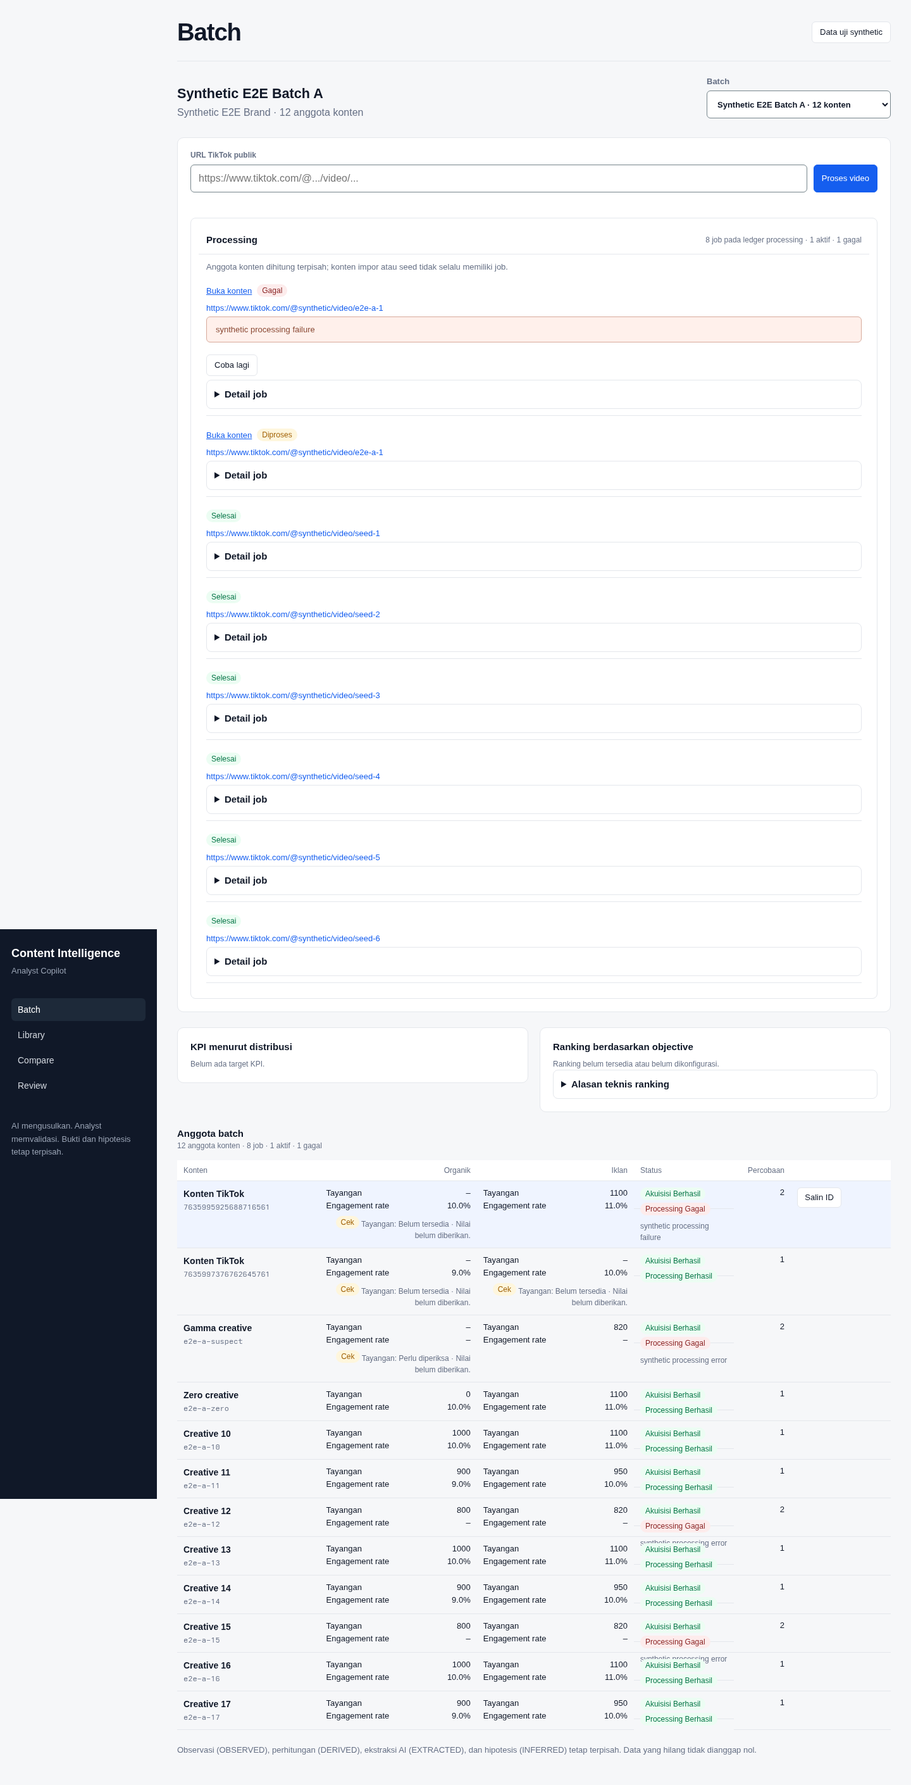
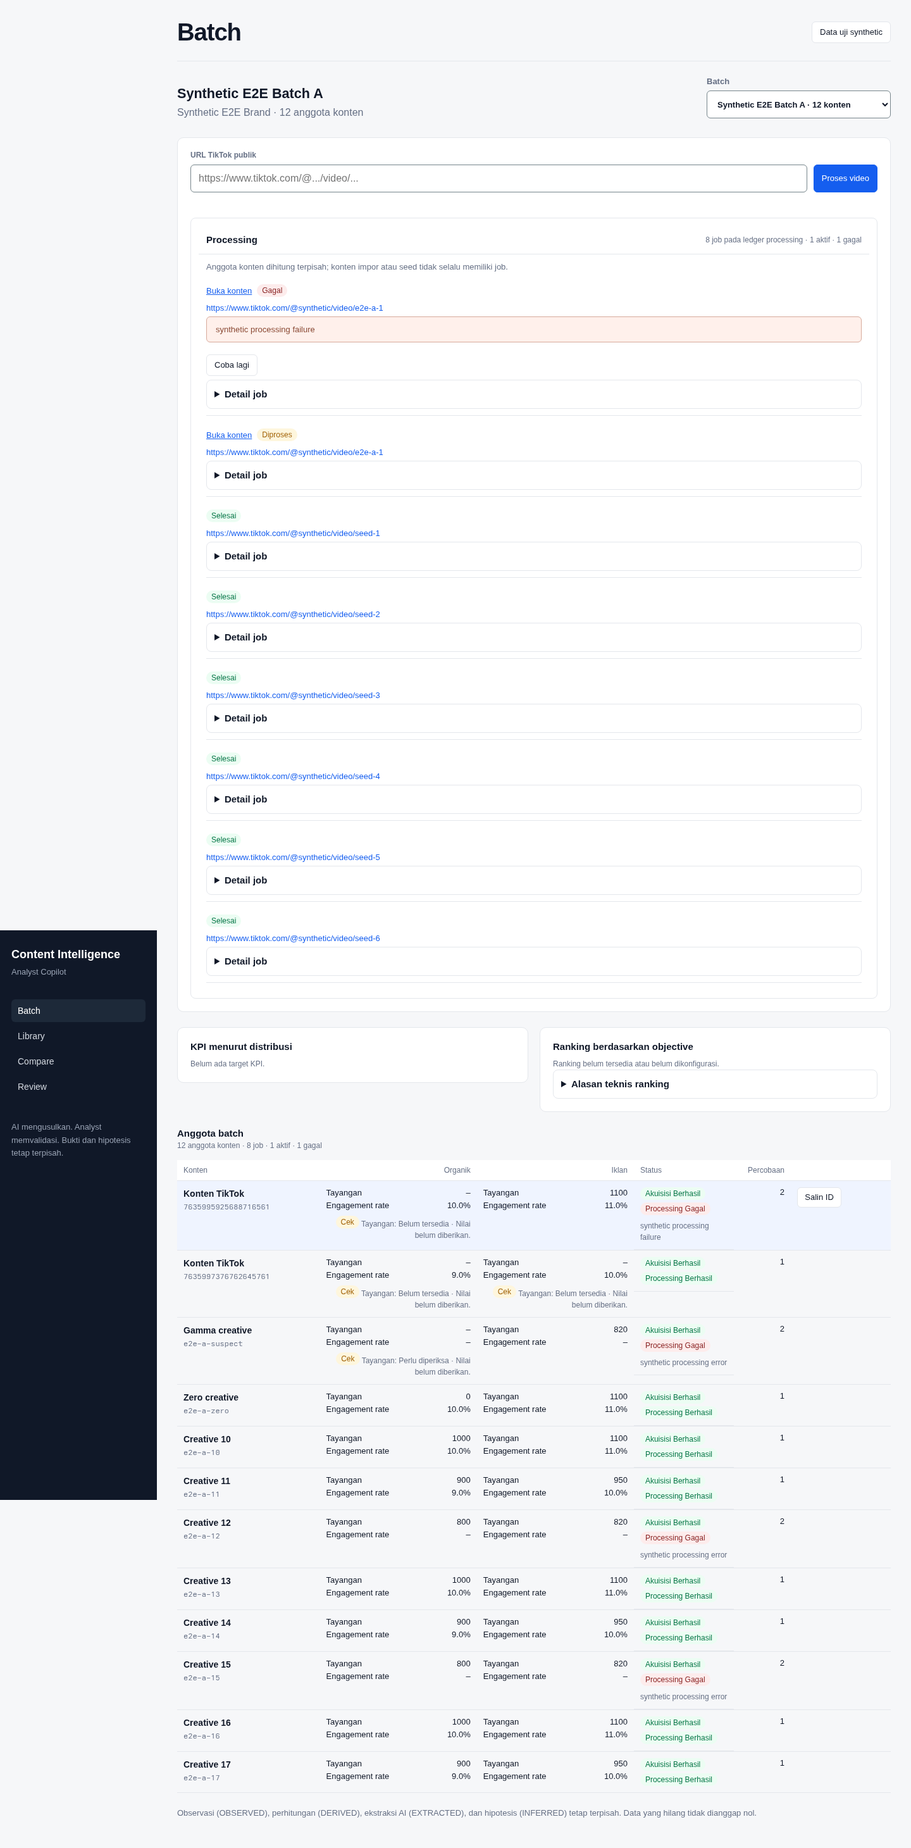
fix(batch): contain status reasons on mobile

diff --git a/app/workspace-client.tsx b/app/workspace-client.tsx
@@ -267,7 +267,7 @@ export default function WorkspaceClient() {
       <div hidden={view !== 'batch'}>
       <ProcessingForm key={batchId ?? data.selectedBatch.id} batchId={batchId ?? data.selectedBatch.id} onAccepted={(acceptedContentId) => setSelection(batchId ?? data.selectedBatch!.id, acceptedContentId, false, view)} onSettled={refreshDetail} onJobSummaryChange={setProcessingJobSummary} />
       <section className="workspace-summary" aria-labelledby="summary-heading"><div className="summary-block"><h2 id="summary-heading">KPI menurut distribusi</h2>{data.analysis?.kpis.length ? data.analysis.kpis.map((item) => <p className="summary-line" key={item.definition.id}><strong>{labelId(item.definition.distribution ?? 'UNCONFIGURED')} · {statusLabel(item.assessment.status)}</strong><span>{labelId(item.definition.metric_name)} · target {metricTextId(item.definition.target_value, item.definition.metric_name)} · aktual {metricTextId(item.assessment.actualValue, item.definition.metric_name)} · {item.assessment.excludedSnapshotIds.length} snapshot dikecualikan</span></p>) : <p className="muted">Belum ada target KPI.</p>}</div><div className="summary-block"><h2>Ranking berdasarkan objective</h2>{data.analysis?.ranking.rankedGroups.length ? data.analysis.ranking.rankedGroups.map((group) => { const extremes = rankingExtremes(group); const linkItems = (items: RankingItem[], value: number | null, label: string) => <span className="extreme-line"><strong>{label}</strong>{items.map((item) => <button className="inline-link" type="button" key={`${label}-${item.contentId}`} onClick={() => { setSelection(data.selectedBatch!.id, item.contentId); navigate('library'); }}>{contentLabel(data.contents.find((content) => content.id === item.contentId))} · {metricTextId(value, group.basis)}</button>)}</span>; return <div className="summary-line" key={`${group.basis}-${group.direction}`}><strong>{labelId(group.basis)} · urutan {labelId(group.direction)}</strong>{linkItems(extremes.best.items, extremes.best.value, 'Terbaik pada basis ini')}{linkItems(extremes.lowest.items, extremes.lowest.value, 'Terendah pada basis ini')}<span>{group.items.length} memenuhi syarat · tidak dibandingkan lintas basis</span></div>; }) : <><p className="muted">Ranking belum tersedia atau belum dikonfigurasi.</p>{data.analysis?.ranking.reason && <details><summary>Alasan teknis ranking</summary>{data.analysis.ranking.reason}</details>}{data.analysis?.ranking.status === 'UNCONFIGURED' && <p className="muted">Atur objective melalui konfigurasi brand yang disetujui. Konfigurasi ranking bersifat append-only.</p>}</>}</div></section>
-      <section className="batch-members" aria-label="Anggota batch"><div className="section-heading"><div><h2 id="batch-members-heading">Anggota batch</h2><p className="muted">{data.contents.length} anggota konten · {jobSummaryText}</p></div></div>{data.contents.length === 0 ? <p className="empty-state">Belum ada konten pada batch ini. Tambahkan URL dari Batch.</p> : <table className="batch-table"><thead><tr><th scope="col">Konten</th><th scope="col" className="num">Organik</th>{hasPaidMetrics && <th scope="col" className="num">Iklan</th>}{hasFrameEvidence && <th scope="col">Frame</th>}<th scope="col">Status</th><th scope="col" className="num batch-attempts">Percobaan</th><th scope="col" className="batch-copy-heading"><span className="visually-hidden">Salin ID</span></th></tr></thead><tbody>{data.contents.map((content) => { const organic = content.snapshots.find((snapshot) => snapshot.distribution === 'ORGANIC'); const paid = content.snapshots.find((snapshot) => snapshot.distribution === 'PAID'); const metric = (value: number | null | undefined, name: string) => value === null || value === undefined ? <span className="dash" aria-label="Tidak tersedia">–</span> : metricTextId(value, name); const metrics = (snapshot: Snapshot | undefined) => <div className="batch-metrics"><span className="batch-metric-line"><span>Tayangan</span><span>{metric(snapshot?.rawMetrics.views, 'views')}</span></span><span className="batch-metric-line"><span>Engagement rate</span><span>{metric(snapshot?.derivedMetrics.engagement_rate?.value, 'engagement_rate')}</span></span>{!snapshot && <small>Belum tersedia</small>}{snapshot && Object.entries(snapshot.qualityByMetric).filter(([, value]) => value.state !== 'VALID').map(([name, value]) => <small className="quality-reason" key={`${snapshot.id}-${name}`}><span className="badge badge--warn">Cek</span> {labelId(name)}: {labelId(value.state)} · {value.reason ? labelId(value.reason) : 'Tanpa alasan tersimpan'}</small>)}</div>; const acquisition = statusLabel(content.acquisitionState); const processing = statusLabel(content.processingState); const untitled = !content.title || content.title === 'Konten TikTok'; return <tr className="content-row" key={content.id}><td className="batch-cell batch-content-cell"><button className="content-row-select batch-content-link" type="button" onClick={() => setSelection(data.selectedBatch!.id, content.id, false, 'library')}><strong>{untitled ? 'Konten TikTok' : content.title}</strong><code>{content.externalId}</code></button></td><td className="batch-cell num batch-metric" data-label="Organik">{metrics(organic)}</td>{hasPaidMetrics && <td className="batch-cell num batch-metric" data-label="Iklan">{metrics(paid)}</td>}{hasFrameEvidence && <td className="batch-cell batch-frame" data-label="Frame">{content.hasFrameEvidence ? 'Frame tersedia' : <span className="dash" aria-label="Frame belum tersedia">–</span>}</td>}<td className="batch-cell batch-status-cell"><span className={`batch-status batch-status--${statusTone(content.acquisitionState)}`}>Akuisisi {acquisition}</span><span className={`batch-status batch-status--${statusTone(content.processingState)}`}>Processing {processing}</span>{content.processingError && <small className="quality-reason">{content.processingError}</small>}</td><td className="batch-cell num batch-attempts" data-label="Percobaan">{content.attemptCount}</td><td className="batch-cell batch-copy-cell"><button type="button" className="copy-id" aria-label={`Salin ID ${content.externalId}`} onClick={(event) => copyExternalId(event, content)}>Salin ID</button>{copiedContentId === content.id && <small role="status">ID disalin</small>}{copiedContentId === `error:${content.id}` && <small role="status">ID gagal disalin</small>}</td></tr>; })}</tbody></table>}</section>
+      <section className="batch-members" aria-label="Anggota batch"><div className="section-heading"><div><h2 id="batch-members-heading">Anggota batch</h2><p className="muted">{data.contents.length} anggota konten · {jobSummaryText}</p></div></div>{data.contents.length === 0 ? <p className="empty-state">Belum ada konten pada batch ini. Tambahkan URL dari Batch.</p> : <table className="batch-table"><thead><tr><th scope="col">Konten</th><th scope="col" className="num">Organik</th>{hasPaidMetrics && <th scope="col" className="num">Iklan</th>}{hasFrameEvidence && <th scope="col">Frame</th>}<th scope="col">Status</th><th scope="col" className="num batch-attempts">Percobaan</th><th scope="col" className="batch-copy-heading"><span className="visually-hidden">Salin ID</span></th></tr></thead><tbody>{data.contents.map((content) => { const organic = content.snapshots.find((snapshot) => snapshot.distribution === 'ORGANIC'); const paid = content.snapshots.find((snapshot) => snapshot.distribution === 'PAID'); const metric = (value: number | null | undefined, name: string) => value === null || value === undefined ? <span className="dash" aria-label="Tidak tersedia">–</span> : metricTextId(value, name); const metrics = (snapshot: Snapshot | undefined) => <div className="batch-metrics"><span className="batch-metric-line"><span>Tayangan</span><span>{metric(snapshot?.rawMetrics.views, 'views')}</span></span><span className="batch-metric-line"><span>Engagement rate</span><span>{metric(snapshot?.derivedMetrics.engagement_rate?.value, 'engagement_rate')}</span></span>{!snapshot && <small>Belum tersedia</small>}{snapshot && Object.entries(snapshot.qualityByMetric).filter(([, value]) => value.state !== 'VALID').map(([name, value]) => <small className="quality-reason" key={`${snapshot.id}-${name}`}><span className="badge badge--warn">Cek</span>{' '}<span className="quality-reason-text">{labelId(name)}: {labelId(value.state)} · {value.reason ? labelId(value.reason) : 'Tanpa alasan tersimpan'}</span></small>)}</div>; const acquisition = statusLabel(content.acquisitionState); const processing = statusLabel(content.processingState); const untitled = !content.title || content.title === 'Konten TikTok'; return <tr className="content-row" key={content.id}><td className="batch-cell batch-content-cell"><button className="content-row-select batch-content-link" type="button" onClick={() => setSelection(data.selectedBatch!.id, content.id, false, 'library')}><strong>{untitled ? 'Konten TikTok' : content.title}</strong><code>{content.externalId}</code></button></td><td className="batch-cell num batch-metric" data-label="Organik">{metrics(organic)}</td>{hasPaidMetrics && <td className="batch-cell num batch-metric" data-label="Iklan">{metrics(paid)}</td>}{hasFrameEvidence && <td className="batch-cell batch-frame" data-label="Frame">{content.hasFrameEvidence ? 'Frame tersedia' : <span className="dash" aria-label="Frame belum tersedia">–</span>}</td>}<td className="batch-cell batch-status-cell"><span className={`batch-status batch-status--${statusTone(content.acquisitionState)}`}>Akuisisi {acquisition}</span><span className={`batch-status batch-status--${statusTone(content.processingState)}`}>Processing {processing}</span>{content.processingError && <small className="quality-reason">{content.processingError}</small>}</td><td className="batch-cell num batch-attempts" data-label="Percobaan">{content.attemptCount}</td><td className="batch-cell batch-copy-cell"><button type="button" className="copy-id" aria-label={`Salin ID ${content.externalId}`} onClick={(event) => copyExternalId(event, content)}>Salin ID</button>{copiedContentId === content.id && <small role="status">ID disalin</small>}{copiedContentId === `error:${content.id}` && <small role="status">ID gagal disalin</small>}</td></tr>; })}</tbody></table>}</section>
       </div>
       {loading && <p className="notice" role="status">Memuat data terpilih…</p>}
       <div hidden={view !== 'compare'}>

diff --git a/tests/e2e/lb4-1-batch.spec.ts b/tests/e2e/lb4-1-batch.spec.ts
@@ -466,7 +466,6 @@ test('AC-09 Batch status pills preserve semantic color and single-line geometry'
 
 test('AC-10 Batch rows contain status reasons and metric card elements without overlap', async ({ page }) => {
   await installApi(page);
-  const overlap = (left: { left: number; right: number; top: number; bottom: number }, right: { left: number; right: number; top: number; bottom: number }) => Math.max(0, Math.min(left.right, right.right) - Math.max(left.left, right.left)) * Math.max(0, Math.min(left.bottom, right.bottom) - Math.max(left.top, right.top));
   for (const viewport of [{ width: 1440, height: 900 }, { width: 390, height: 844 }]) {
     await page.setViewportSize(viewport);
     await page.goto(`/?batchId=${batchA.id}&view=batch`);
@@ -477,7 +476,7 @@ test('AC-10 Batch rows contain status reasons and metric card elements without o
         const overlap = (left: DOMRect, right: DOMRect) => Math.max(0, Math.min(left.right, right.right) - Math.max(left.left, right.left)) * Math.max(0, Math.min(left.bottom, right.bottom) - Math.max(left.top, right.top));
         const visible = (node: Element) => (node as HTMLElement).checkVisibility();
         return {
-          contained: rows.every((row) => [...row.querySelectorAll('.batch-cell, .batch-status, .batch-status-cell > .quality-reason')].filter(visible).every((node) => { const child = rect(node); const parent = rect(row); return child.left >= parent.left && child.right <= parent.right && child.top >= parent.top && child.bottom <= parent.bottom; })),
+          contained: rows.every((row) => [...row.querySelectorAll('*')].filter(visible).every((node) => { const child = rect(node); const parent = rect(row); return child.left >= parent.left && child.right <= parent.right && child.top >= parent.top && child.bottom <= parent.bottom; })),
           crossRowIntersections: rows.flatMap((row, index) => [...row.querySelectorAll('.batch-status, .batch-status-cell > .quality-reason')].filter(visible).flatMap((node) => rows.slice(index + 1).flatMap((next) => [...next.querySelectorAll('.batch-status, .batch-status-cell > .quality-reason')].filter(visible).map((other) => overlap(rect(node), rect(other)))))).filter((area) => area > 0),
         };
       });
@@ -487,12 +486,27 @@ test('AC-10 Batch rows contain status reasons and metric card elements without o
       await expect(cards.nth(0)).toContainText('Konten TikTok');
       await expect(cards.nth(1)).toContainText('Konten TikTok');
       await expect(cards.nth(2)).toContainText('Gamma creative');
-      const geometry = await cards.evaluateAll((rows) => rows.slice(0, 3).map((row) => {
-        const nodes = [...row.querySelectorAll<HTMLElement>('.batch-metric-line > span, .badge--warn, .batch-metrics .quality-reason')].filter((node) => node.checkVisibility());
-        const rects = nodes.map((node) => node.getBoundingClientRect());
-        return rects.flatMap((rect, index) => rects.slice(index + 1).map((other) => overlap(rect, other))).filter((area) => area > 0);
-      }));
+      const geometry = await cards.evaluateAll((rows) => {
+        const overlap = (left: DOMRect, right: DOMRect) => Math.max(0, Math.min(left.right, right.right) - Math.max(left.left, right.left)) * Math.max(0, Math.min(left.bottom, right.bottom) - Math.max(left.top, right.top));
+        return rows.slice(0, 3).map((row) => {
+          const nodes = [...row.querySelectorAll<HTMLElement>('.batch-metric-line > span, .badge--warn, .batch-metrics .quality-reason-text')].filter((node) => node.checkVisibility());
+          const rects = nodes.map((node) => node.getBoundingClientRect());
+          return rects.flatMap((rect, index) => rects.slice(index + 1).map((other) => overlap(rect, other))).filter((area) => area > 0);
+        });
+      });
       expect(geometry).toEqual([[], [], []]);
+      if (process.env.CIC_BATCH_EVIDENCE_DIR) {
+        await page.setViewportSize({ width: viewport.width, height: 2000 });
+        await cards.nth(0).scrollIntoViewIfNeeded();
+        const crop = await cards.evaluateAll((rows) => {
+          const first = rows[0].getBoundingClientRect();
+          const third = rows[2].getBoundingClientRect();
+          return { y: first.top, height: third.bottom - first.top };
+        });
+        expect(await page.evaluate(() => devicePixelRatio)).toBe(1);
+        await page.screenshot({ path: `${process.env.CIC_BATCH_EVIDENCE_DIR}/BATCH_PRESENTATION_390_CARDS.png`, clip: { x: 0, y: crop.y, width: 390, height: crop.height } });
+      }
+      await page.setViewportSize(viewport);
     }
     const processing = page.locator('.processing-job-status').first();
     const processingGeometry = await processing.evaluate((node) => {

diff --git a/app/globals.css b/app/globals.css
@@ -625,7 +625,7 @@ button.primary { border-color: var(--accent); background: var(--accent); color: 
 .view-batch .processing-drawer-content .job-source:hover, .view-batch .processing-drawer-content .job-source:focus-visible { text-decoration: underline; }
 .view-batch .batch-table { table-layout: fixed; }
 .view-batch .batch-table th { height: 32px; padding: 0 10px; color: var(--muted); font-size: var(--type-meta); font-weight: 500; line-height: 16px; vertical-align: middle; }
-.view-batch .batch-table td { padding: 10px; color: var(--ink); font-size: var(--type-body); font-weight: 400; vertical-align: top; }
+.view-batch .batch-table td { height: auto; padding: 10px; color: var(--ink); font-size: var(--type-body); font-weight: 400; vertical-align: top; }
 .view-batch .batch-content-link { display: grid; gap: 2px; min-height: 0; padding: 0; border: 0 !important; border-radius: 0; background: transparent !important; color: var(--ink); font-size: var(--type-body); font-weight: 400; }
 .view-batch .batch-content-link strong { font-size: 14px; font-weight: 600; line-height: 20px; }
 .view-batch .batch-content-link code { margin: 0; font: 12px/18px monospace; }
@@ -633,10 +633,11 @@ button.primary { border-color: var(--accent); background: var(--accent); color: 
 .view-batch .batch-metric-line { display: flex; justify-content: space-between; gap: 8px; min-width: 0; font-size: var(--type-body); font-weight: 400; line-height: 18px; text-align: right; }
 .view-batch .batch-metric-line > span:first-child { min-width: 0; text-align: left; }
 .view-batch .batch-metric-line > span:last-child { flex: 0 0 auto; }
-.view-batch .batch-status-cell { display: flex; flex-direction: column; align-items: flex-start; gap: 4px; }
+.view-batch .batch-status-cell { display: flex; flex-direction: column; align-items: flex-start; gap: 4px; min-width: 0; }
 .view-batch .batch-status { box-sizing: border-box; width: fit-content; min-height: 20px; height: 20px; padding: 2px 8px; border: 0; border-radius: 999px; font-size: 12px; font-weight: 500; line-height: 16px; white-space: nowrap; }
 .view-batch .badge--warn { box-sizing: border-box; height: 20px; padding: 2px 8px; border: 0; border-radius: 999px; font-size: 12px; font-weight: 500; line-height: 16px; vertical-align: text-bottom; }
-.view-batch .quality-reason { display: block; margin-top: 4px; color: var(--muted) !important; font-size: var(--type-meta); font-weight: 400; line-height: 18px; overflow-wrap: anywhere; }
+.view-batch .quality-reason { display: block; width: 100%; margin-top: 4px; color: var(--muted) !important; font-size: var(--type-meta); font-weight: 400; line-height: 18px; overflow-wrap: anywhere; }
+.view-batch .quality-reason-text { min-width: 0; }
 @media (max-width: 900px) {
   .view-batch .batch-table, .view-batch .batch-table tbody { display: block; width: 100%; }
   .view-batch .batch-table thead { display: none; }
@@ -649,8 +650,8 @@ button.primary { border-color: var(--accent); background: var(--accent); color: 
   .view-batch .batch-attempts { order: 5; }
   .view-batch .batch-copy-cell { order: 6; }
   .view-batch .batch-metric::before { content: attr(data-label); display: block; margin-bottom: 2px; color: var(--muted); font-size: var(--type-meta); font-weight: 400; line-height: 18px; }
-  .view-batch .batch-metric-line { text-align: left; }
-  .view-batch .batch-metric-line > span:last-child { flex: 0 1 auto; min-width: 0; overflow-wrap: anywhere; }
+  .view-batch .batch-metric-line { display: grid; grid-template-columns: minmax(0, 1fr) auto; align-items: start; text-align: left; }
+  .view-batch .batch-metric-line > span:last-child { min-width: 0; overflow-wrap: anywhere; }
   .view-batch .batch-copy-cell .copy-id { min-height: 32px !important; height: 32px; padding: 6px 10px !important; font-size: 13px; line-height: 18px; }
   .view-batch .batch-table .copy-id { opacity: 1; visibility: visible; }
 }

diff --git a/docs/tracking/evidence/BATCH_PRESENTATION_MEASUREMENTS_2026-10-23.md b/docs/tracking/evidence/BATCH_PRESENTATION_MEASUREMENTS_2026-10-23.md
@@ -12,20 +12,23 @@ Scope: build produksi lokal branch `feat/batch-presentation-pr`. API di-route-mo
 | Alasan kualitas engine | 12px abu; reason asal data | 12px / 400; `rgb(102, 112, 133)`; `MISSING · NOT_PROVIDED` | 12px / 400; warna sama | PASS |
 | Badge `Cek` | terisi, 12px | 37.34×20px; 12px / 500; amber; border 0; radius 999px | sama | PASS |
 | Status akuisisi `SUCCEEDED` | hijau lembut, tanpa border gelap | `rgb(236, 253, 243)` / `rgb(6, 118, 71)`; 20px; 12px / 500; border 0 | sama | PASS |
+| Dua pill status anggota | masing-masing 20px, `nowrap`, satu baris | akuisisi dan processing: 20px, `nowrap`, 1 baris | sama | PASS |
 | Status processing `FAILED` | merah lembut, tanpa border gelap | `rgb(253, 236, 236)` / `rgb(139, 37, 37)`; 20px; 12px / 500; border 0 | sama | PASS |
+| Alasan processing dalam baris anggota | setiap anak berada dalam bounding box row; interseksi lintas-row 0px² | seluruh `.batch-cell`, pill, dan alasan berada dalam row; 0px² | N/A | PASS |
+| Pill job `Processing …` | `fit-content`; lebar teks + padding 16px; tanpa pseudo/border/shadow/strip | deviasi lebar ≤1px; border 0; shadow `none`; `::before`/`::after` `none` | sama | PASS |
 | Status job processing | `COMPLETED` hijau; berjalan amber; gagal merah | tiga tone; 20px; 12px / 500; border 0; `nowrap` | sama | PASS |
 | Organik/Iklan | kolom terpisah; badge sumber tidak di sel nilai | sel metrik terpisah, tanpa source badge pada nilai | blok metrik terpisah satu kolom per distribution | PASS |
-| Kartu mobile | tidak saling tumpang tindih | N/A | blok `.batch-cell` tidak beririsan; setiap blok dan teks tidak overflow | PASS |
+| Tiga kartu metrik mobile | label, nilai, badge `Cek`, alasan tanpa interseksi | N/A | Konten TikTok, Konten TikTok kedua, Gamma creative: 0px² antar elemen leaf | PASS |
 
-Probe: `CIC_BATCH_EVIDENCE_DIR=docs/tracking/evidence CIC_E2E_STAGING_URL=http://127.0.0.1:3202 mise exec node@22.18.0 -- npx playwright test tests/e2e/lb4-1-batch.spec.ts --grep 'AC-07 readability|AC-08 Batch panels|AC-09 Batch status' --reporter=list`; `AC-07`, `AC-08`, dan `AC-09` lulus pada build produksi lokal. `AC-08` mengukur computed style dan overlap kartu di 1440×900 serta 390×844; `AC-09` mengunci geometri, warna, dan mapping tone status.
+Probe: `CIC_BATCH_EVIDENCE_DIR=docs/tracking/evidence CIC_E2E_STAGING_URL=http://127.0.0.1:3202 mise exec node@22.18.0 -- npx playwright test tests/e2e/lb4-1-batch.spec.ts --grep 'AC-10 Batch rows' --reporter=list`; `AC-10` lulus pada build produksi lokal. Desktop mengukur containment dan interseksi lintas-row; mobile mengukur baris metrik leaf dan menyimpan crop 390px/DPR1.
 
 ## Gambar
 
-| Desktop 1440×900 | Mobile 390×844 |
-|---|---|
-| `docs/tracking/evidence/BATCH_PRESENTATION_1440x900.png` | `docs/tracking/evidence/BATCH_PRESENTATION_390x844.png` |
+| Desktop 1440×900 | Mobile 390×844 | Crop tiga kartu mobile asli |
+|---|---|---|
+| `docs/tracking/evidence/BATCH_PRESENTATION_1440x900.png` | `docs/tracking/evidence/BATCH_PRESENTATION_390x844.png` | `docs/tracking/evidence/BATCH_PRESENTATION_390_CARDS.png` (390×1055, DPR1) |
 
 ## Selisih tersisa
 
-- Tidak ada selisih terhadap kriteria Batch yang terukur.
+- Tidak ada selisih terukur untuk status reason, pill job processing, atau geometri tiga kartu mobile pada fixture route-mocked.
 - Batch 8 integrated, staging, provider, production, dan walkthrough manusia: NOT RUN.

diff --git a/CHANGELOG.md b/CHANGELOG.md
@@ -26,6 +26,7 @@ dan proyek ini mengikuti [Semantic Versioning](https://semver.org/spec/v2.0.0.ht
 - Batch: tabel anggota responsif; KPI/ranking di atas tabel; data hilang tetap dash, ID konten tanpa judul tampil sebagai judul, serta status akuisisi/processing eksplisit.
 - Batch menyetarakan tabel/kartu anggota ke skala panel 15 px, body 13 px, meta 12 px; reason kualitas engine dan badge status eksplisit; kartu mobile satu kolom tanpa overflow atau tumpang tindih.
 - Batch: status `SUCCEEDED`/`COMPLETED` kini memakai pill hijau, `FAILED` merah, dan status berjalan amber konsisten pada anggota serta drawer processing; geometri tetap 20 px satu baris tanpa mengubah state atau data.
+- Batch mengandung reason status di dalam row, menghapus strip dekoratif pada pill job processing, dan menjaga tiga kartu metrik mobile tanpa interseksi; diuji pada build produksi 1440×900 dan 390×844.
 - Batch, Library, Compare, dan Review memiliki tugas terpisah; hasil generation membuka Review tanpa menyalin form review.
 - Label Indonesia terpusat, fingerprint AI asli/hasil review berdampingan, history append-only ringkas, form Next Test terlipat, serta mobile tanpa page overflow.
 - Review hipotesis merangkum antrean per pasangan konten, menampilkan snapshot bukti berdampingan, metadata sumber/waktu, dan layout keputusan yang diuji pada desktop/mobile.
